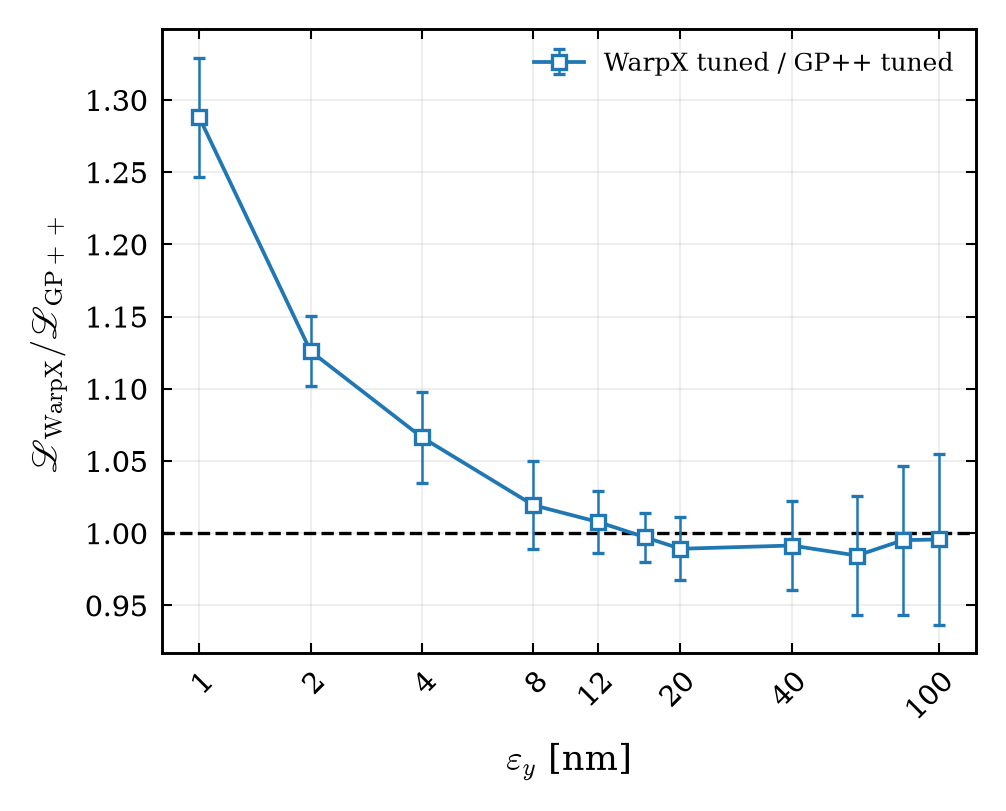
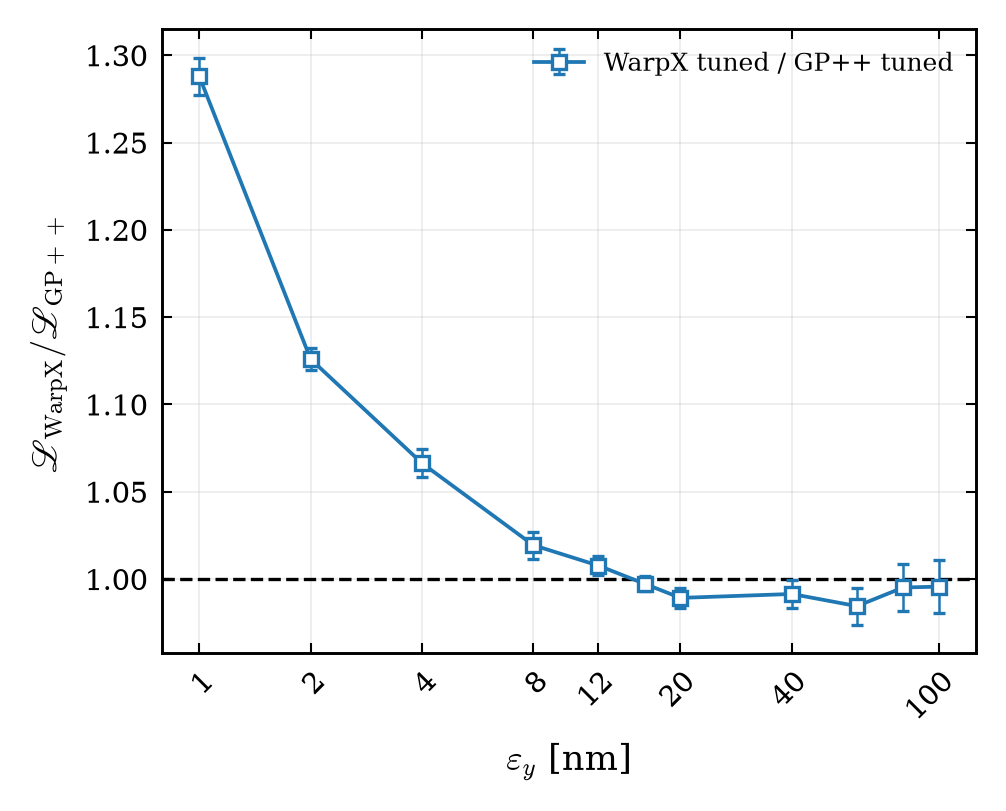
Code-ratio figure shows the standard error of the ratio of means
WX_code_ratio_vs_ey now draws, for each emittance, the standard error of the
WarpX/GP++ ratio of 15-seed means: each code's relative seed scatter divided by
sqrt(n_seeds), in quadrature. The bars equal the 'se' reported for the same
ratio in paper_numbers.

diff --git a/plot_extension.py b/plot_extension.py
@@ -61,11 +61,13 @@ def draw():
 
 
 def draw_code_ratio():
-    """WX_code_ratio_vs_ey: WarpX tuned / GP++ tuned vs e_y over 1-100 nm (error bar: seed STDs in quadrature)."""
+    """WX_code_ratio_vs_ey: WarpX tuned / GP++ tuned vs e_y over 1-100 nm (error bar: standard error of the ratio of means)."""
     S = series(); wx, gp = S["wx_tuned"], S["gp_tuned"]
     es = np.array(sorted(e for e in wx if e in gp))
     r = np.array([wx[e][0] / gp[e][0] for e in es])
-    re = r * np.sqrt(np.array([(wx[e][1] / wx[e][0]) ** 2 + (gp[e][1] / gp[e][0]) ** 2 for e in es]))
+    # standard error of the ratio of means: each relative seed scatter divided by sqrt(n_seeds), in quadrature
+    re = r * np.sqrt(np.array([(wx[e][1] / wx[e][0]) ** 2 / wx[e][2] + (gp[e][1] / gp[e][0]) ** 2 / gp[e][2]
+                               for e in es]))
     with plt.rc_context(PRL):
         fig, ax = plt.subplots(figsize=(3.5, 2.7))
         ax.axhline(1.0, color="k", ls="--", lw=0.8, zorder=2)
